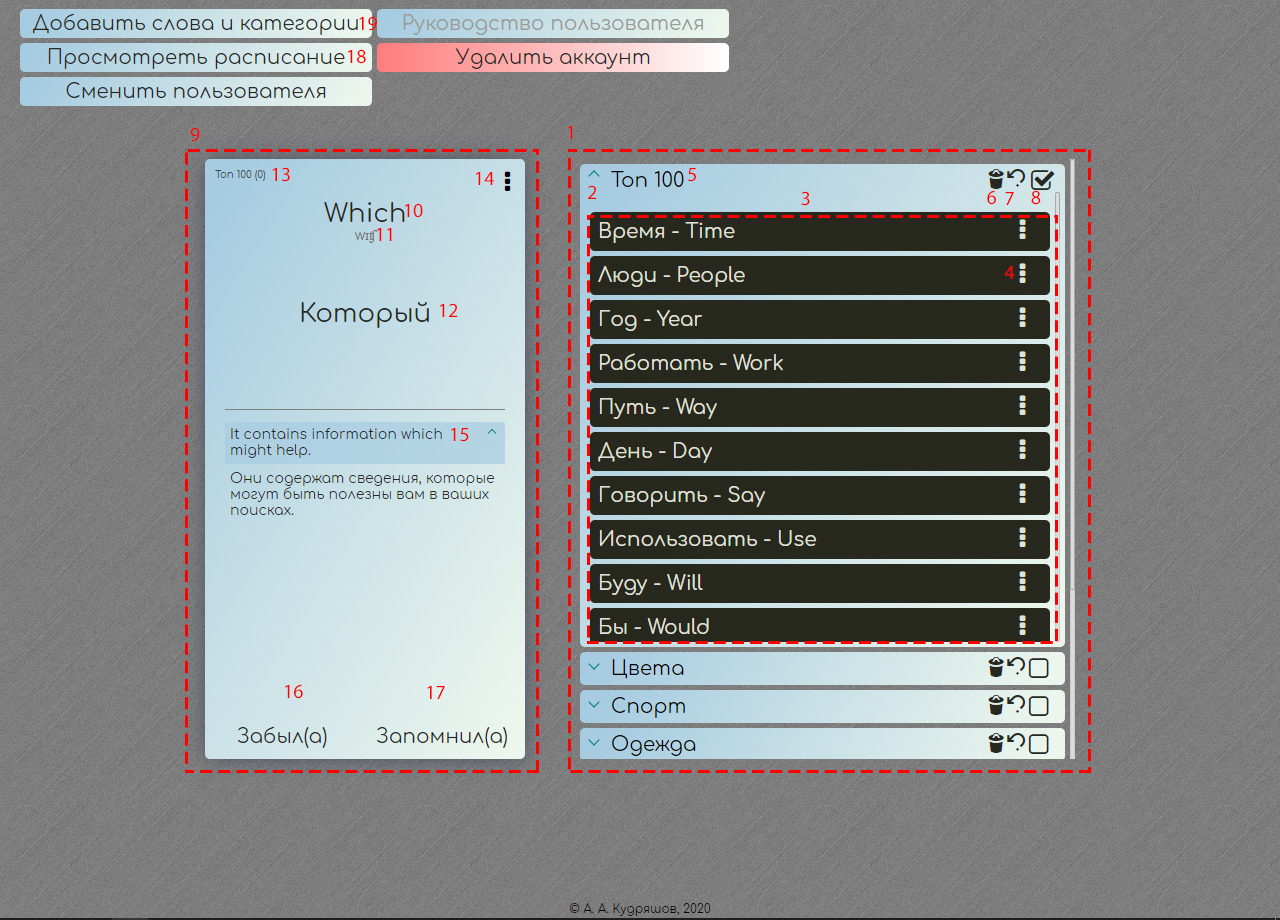
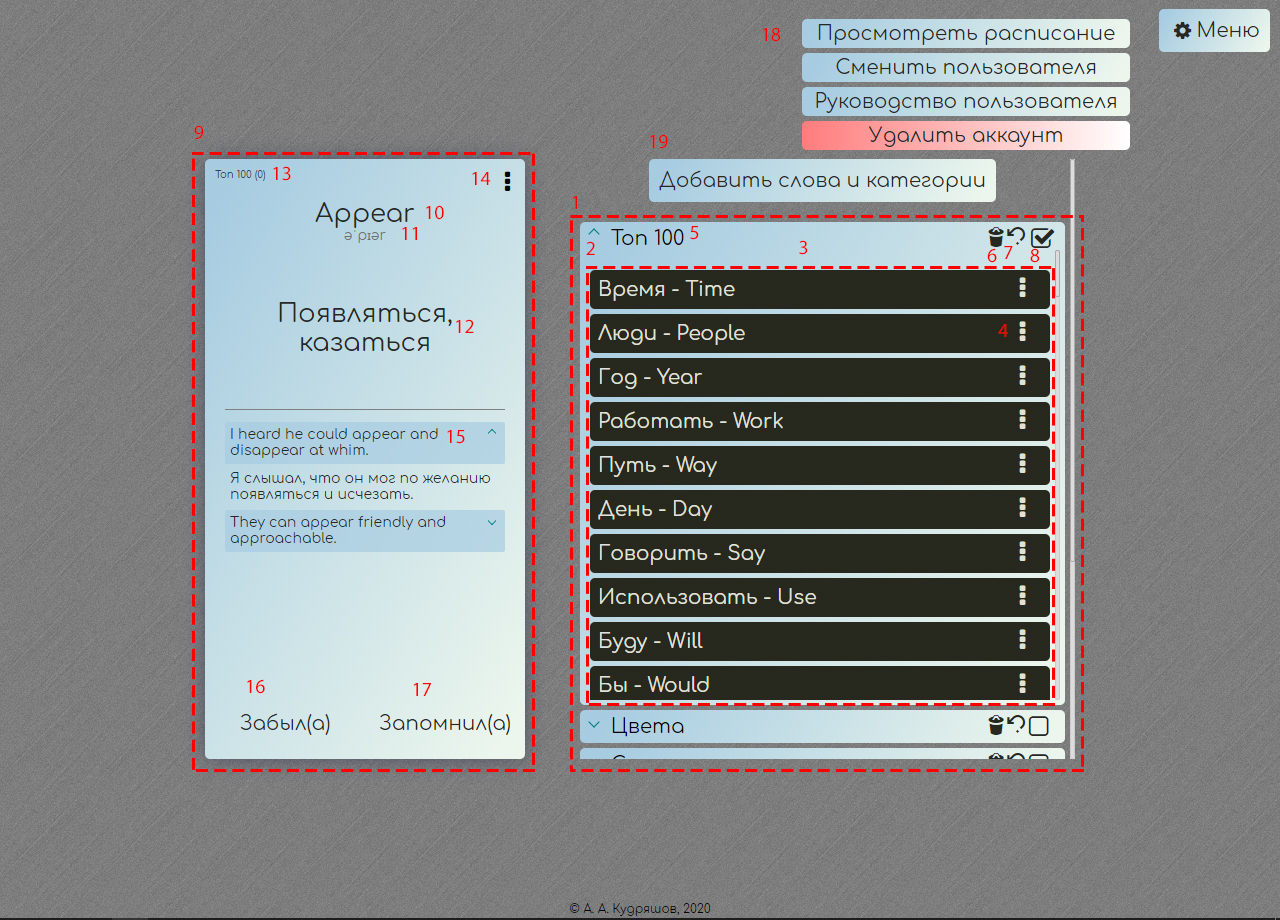
esc exiting and menu design

diff --git a/words-memorizer/css/style.css b/words-memorizer/css/style.css
@@ -605,31 +605,6 @@ th {
 #signInFormWrap #faq #closeEditingWindow,
 #signUpFormWrap #faq #closeEditingWindow,
 #faqWrap #faq #closeEditingWindow,
-#wordsSectionWrap #wordsSection #closeSignInWindow,
-#editingSectionWrap #wordsSection #closeSignInWindow,
-#signInFormWrap #wordsSection #closeSignInWindow,
-#signUpFormWrap #wordsSection #closeSignInWindow,
-#faqWrap #wordsSection #closeSignInWindow,
-#wordsSectionWrap #editingSection #closeSignInWindow,
-#editingSectionWrap #editingSection #closeSignInWindow,
-#signInFormWrap #editingSection #closeSignInWindow,
-#signUpFormWrap #editingSection #closeSignInWindow,
-#faqWrap #editingSection #closeSignInWindow,
-#wordsSectionWrap #signInForm #closeSignInWindow,
-#editingSectionWrap #signInForm #closeSignInWindow,
-#signInFormWrap #signInForm #closeSignInWindow,
-#signUpFormWrap #signInForm #closeSignInWindow,
-#faqWrap #signInForm #closeSignInWindow,
-#wordsSectionWrap #signUpForm #closeSignInWindow,
-#editingSectionWrap #signUpForm #closeSignInWindow,
-#signInFormWrap #signUpForm #closeSignInWindow,
-#signUpFormWrap #signUpForm #closeSignInWindow,
-#faqWrap #signUpForm #closeSignInWindow,
-#wordsSectionWrap #faq #closeSignInWindow,
-#editingSectionWrap #faq #closeSignInWindow,
-#signInFormWrap #faq #closeSignInWindow,
-#signUpFormWrap #faq #closeSignInWindow,
-#faqWrap #faq #closeSignInWindow,
 #wordsSectionWrap #wordsSection #closeSignUpWindow,
 #editingSectionWrap #wordsSection #closeSignUpWindow,
 #signInFormWrap #wordsSection #closeSignUpWindow,
@@ -4404,15 +4379,19 @@ ul.wordsList {
   max-height: 450px;
   overflow-y: auto;
 }
+#openMenuBtnsWrap {
+  position: absolute;
+  right: 10px;
+  top: 10px;
+}
 #mainButtons {
   position: absolute;
-  left: 20px;
-  top: 10px;
+  right: 150px;
+  top: 20px;
   display: flex;
   flex-direction: column;
   font-size: 10px;
   max-height: 130px;
-  flex-wrap: wrap;
 }
 #mainButtons button {
   width: 100%;
@@ -4424,6 +4403,15 @@ ul.wordsList {
 }
 #mainButtons #deleteUser {
   background: linear-gradient(90deg, #020024 0%, #ff7c7c 0%, #ffffff 100%);
+}
+#openAddingWindow {
+  background: linear-gradient(121.4983942deg, #a7cce1 6.140625%, #ecf6ed 95.515625%);
+}
+#categoriesList {
+  margin-top: 20px;
+}
+#openMenuBtns {
+  background: linear-gradient(121.4983942deg, #a7cce1 6.140625%, #ecf6ed 95.515625%);
 }
 .mainButtonsWrap {
   display: none;
@@ -4544,7 +4532,6 @@ ul.wordsList {
   #wordInputsEditingWrap label input {
     margin-bottom: 10px !important;
   }
-  #closeSignInWindow,
   #closeSignUpWindow,
   #closeAddingWindow,
   #closeEditingWindow,

diff --git a/words-memorizer/js/main.js b/words-memorizer/js/main.js
@@ -92,14 +92,17 @@ $('#closeAddingWindow').on('click', () => {
   closeAddingWindow();
 })
 
-$('#closeSignInWindow').on('click', () => {
-  closeSignInWindow();
-})
+
 
 $('#closeFaq').on('click', () => {
+  closeFaqWindow();
+})
+
+function closeFaqWindow() {
   $('#faq').css({ top: '-200px' }).slideUp(100);
   $('#faqWrap').fadeOut('slow');
-})
+}
+
 
 $('#closeSignUpWindow').on('click', () => {
   closeSignUpWindow();
@@ -131,12 +134,15 @@ $('#openSheduleWindow').on('click', () => {
   } else {
     $('#tableWrap table').slideDown(100, () => { $('#tableWrap table').css({ top: '0px' }) });
   }
-
 })
 
-$('#closeSheduleWindow').on('click', () => {
+function closeShedultWindow() {
   $('#tableWrap table').css({ top: '-200px' }).slideUp(100);
   $('#tableWrap').fadeOut('slow');
+}
+
+$('#closeSheduleWindow').on('click', () => {
+  closeShedultWindow();
 })
 
 $('#addExampleFormBtn').on('click', () => {
@@ -991,7 +997,7 @@ function checkStorage() {
           fillCategories();
 
           if (screen.width > 899) {
-            $('#mainButtons').show();
+            $('#openMenuBtnsWrap').show();
           }
         } else {
           localStorage.clear();
@@ -1027,7 +1033,7 @@ $('#signIn').on('click', () => {
           }
           closeSignInWindow();
           if (screen.width > 899) {
-            $('#mainButtons').show();
+            $('#openMenuBtnsWrap').show();
           }
         } else {
           alert('Пароль не верный!');
@@ -1095,7 +1101,7 @@ function addUserToDB() {
           closeSignInWindow();
           closeSignUpWindow();
           if (screen.width > 899) {
-            $('#mainButtons').show();
+            $('#openMenuBtnsWrap').show();
           }
           fillCategories();
           $('#loadingWindowWrap').hide();
@@ -1106,6 +1112,9 @@ function addUserToDB() {
   });
 }
 
+$('#openMenuBtns').on('click', () => {
+  $('#mainButtons').toggle(150);
+})
 
 $('#changeUser').on('click', () => {
   if (JSON.parse(localStorage.getItem('userName'))) {
@@ -1127,8 +1136,15 @@ $('#guideBtn').on('click', () => {
   openGuideWindow();
 })
 
-
-
+$('body').on('keydown', key => {
+  if (key.keyCode == 27) {
+    closeAddingWindow();
+    closeEditingWindow();
+    closeSignUpWindow();
+    closeFaqWindow();
+    closeShedultWindow();
+  }
+});
 // Список фич:
 
 // сброс прогресса по всей категории

diff --git a/words-memorizer/index.html b/words-memorizer/index.html
@@ -53,6 +53,8 @@
     </div>
     <!-- блок со всеми словами, сгруппированными по категориям -->
     <div id="categoriesBlock">
+
+      <button id="openAddingWindow" class="buttons">Добавить слова и категории</button>
       <ul id="categoriesList">
       </ul>
     </div>
@@ -252,8 +254,6 @@
   <div id="signInFormWrap" style="display: none;">
     <div id="signInForm" style="display:none">
 
-      <button id="closeSignInWindow" class="icon-cancel-circled2"></button>
-
       <div id="signInInputsWrap">
 
         <label>Введите логин
@@ -403,7 +403,6 @@
 
   <!-- главные кнопки десктоп -->
   <div id="mainButtons" style="display: none;">
-    <button id="openAddingWindow" class="buttons">Добавить слова и категории</button>
     <button id="openSheduleWindow" class="buttons">Просмотреть расписание</button>
     <button class="buttons" id="changeUser">Сменить пользователя</button>
     <button id="guideBtn" class="buttons">Руководство пользователя</button>
@@ -413,6 +412,10 @@
   <!-- копирайтинг -->
   <div id="copyright">
     <p>© А. А. Кудряшов, 2020</p>
+  </div>
+
+  <div id="openMenuBtnsWrap" style="display: none;">
+    <button class="buttons icon-cog" id="openMenuBtns">Меню</button>
   </div>
 
   <!-- окно загрузки -->

diff --git a/words-memorizer/css/style.less b/words-memorizer/css/style.less
@@ -604,7 +604,6 @@ th {
 
     #closeAddingWindow,
     #closeEditingWindow,
-    #closeSignInWindow,
     #closeSignUpWindow,
     #closeFaq {
       position: absolute;
@@ -821,15 +820,20 @@ ul.wordsList {
   overflow-y: auto;
 }
 
+#openMenuBtnsWrap {
+  position: absolute;
+  right: 10px;
+  top: 10px;
+}
+
 #mainButtons {
   position: absolute;
-  left: 20px;
-  top: 10px;
+  right: 150px;
+  top: 20px;
   display: flex;
   flex-direction: column;
   font-size: 10px;
   max-height: 130px;
-  flex-wrap: wrap;
 
 
   button {
@@ -844,6 +848,18 @@ ul.wordsList {
   #deleteUser {
     background: linear-gradient(90deg, rgba(2, 0, 36, 1) 0%, rgba(255, 124, 124, 1) 0%, rgba(255, 255, 255, 1) 100%);
   }
+}
+
+#openAddingWindow {
+  background: linear-gradient(121.49839420425917deg, rgba(167, 204, 225, 1) 6.140625%, rgba(236, 246, 237, 1) 95.51562499999999%);
+}
+
+#categoriesList {
+  margin-top: 20px;
+}
+
+#openMenuBtns {
+  background: linear-gradient(121.49839420425917deg, rgba(167, 204, 225, 1) 6.140625%, rgba(236, 246, 237, 1) 95.51562499999999%);
 }
 
 .mainButtonsWrap {
@@ -978,7 +994,6 @@ ul.wordsList {
     }
   }
 
-  #closeSignInWindow,
   #closeSignUpWindow,
   #closeAddingWindow,
   #closeEditingWindow,
